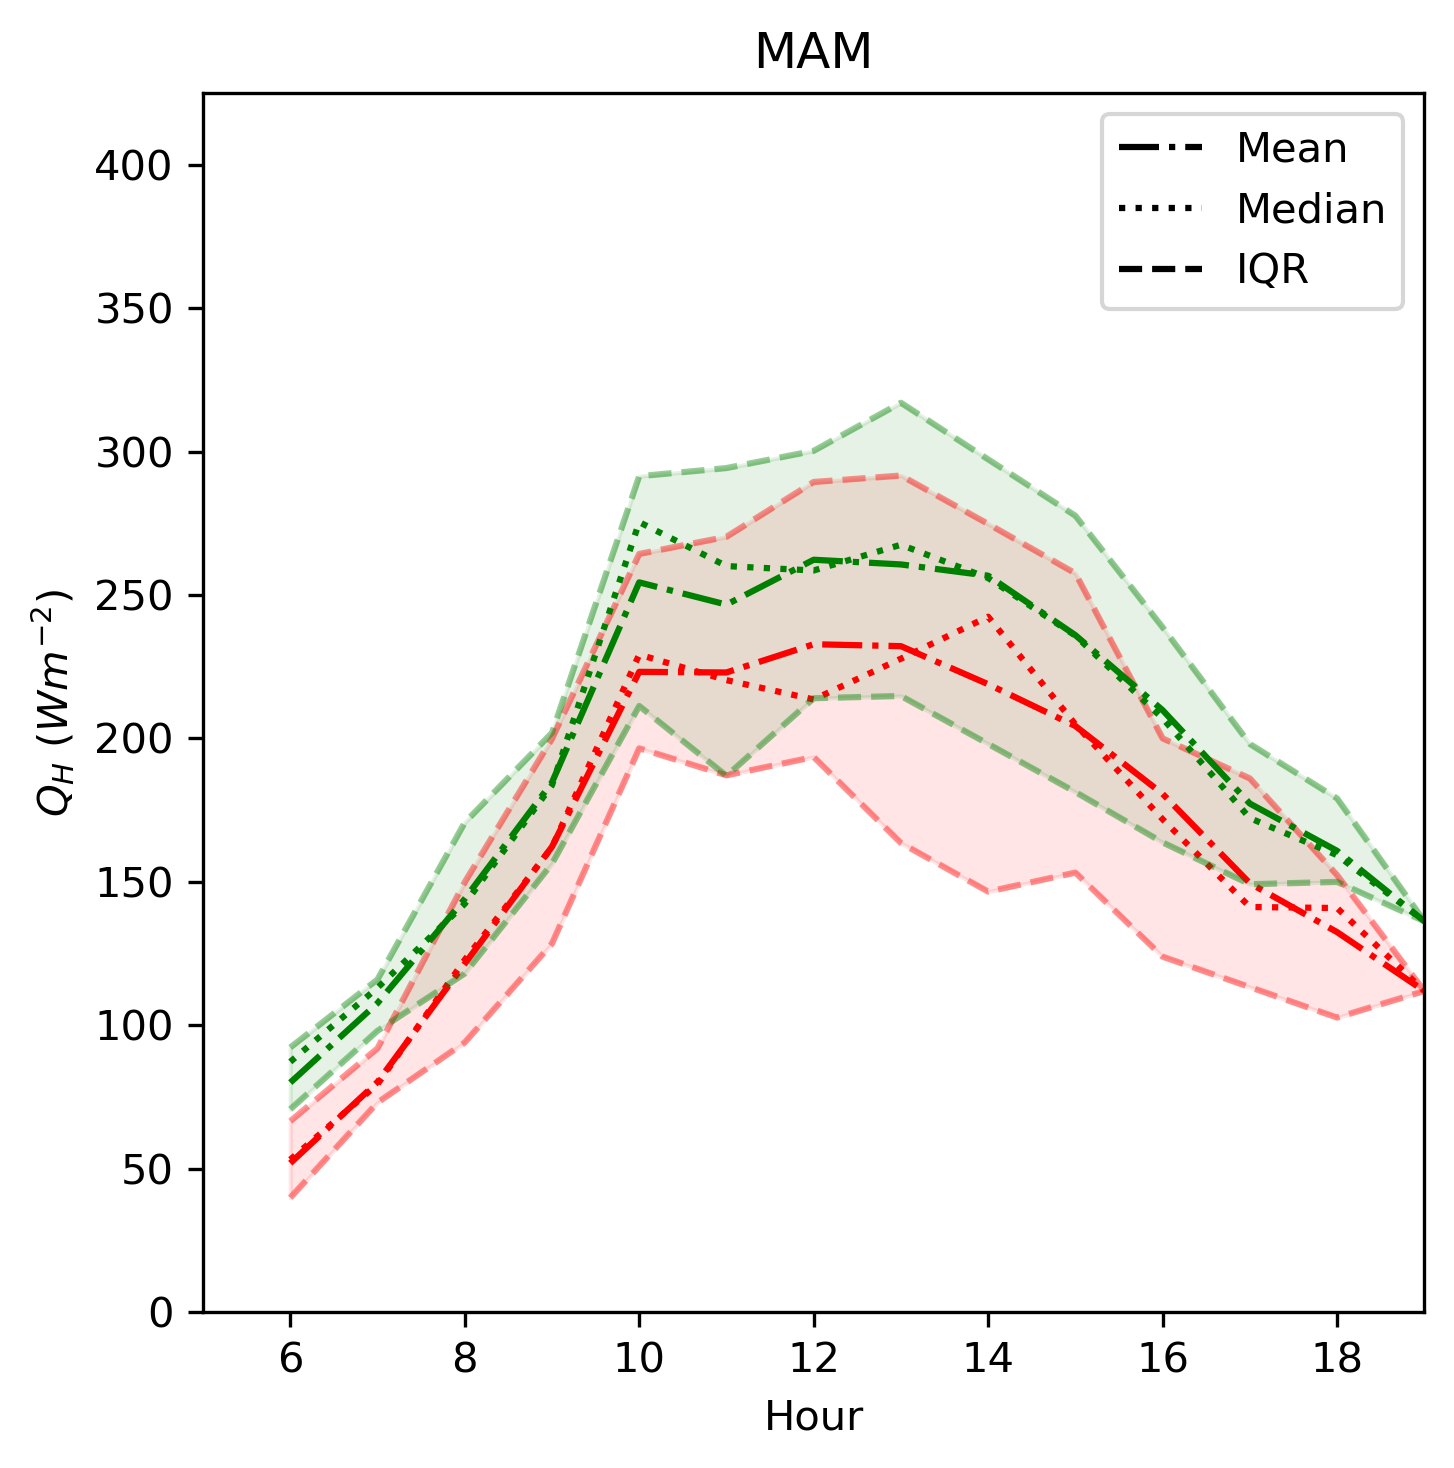
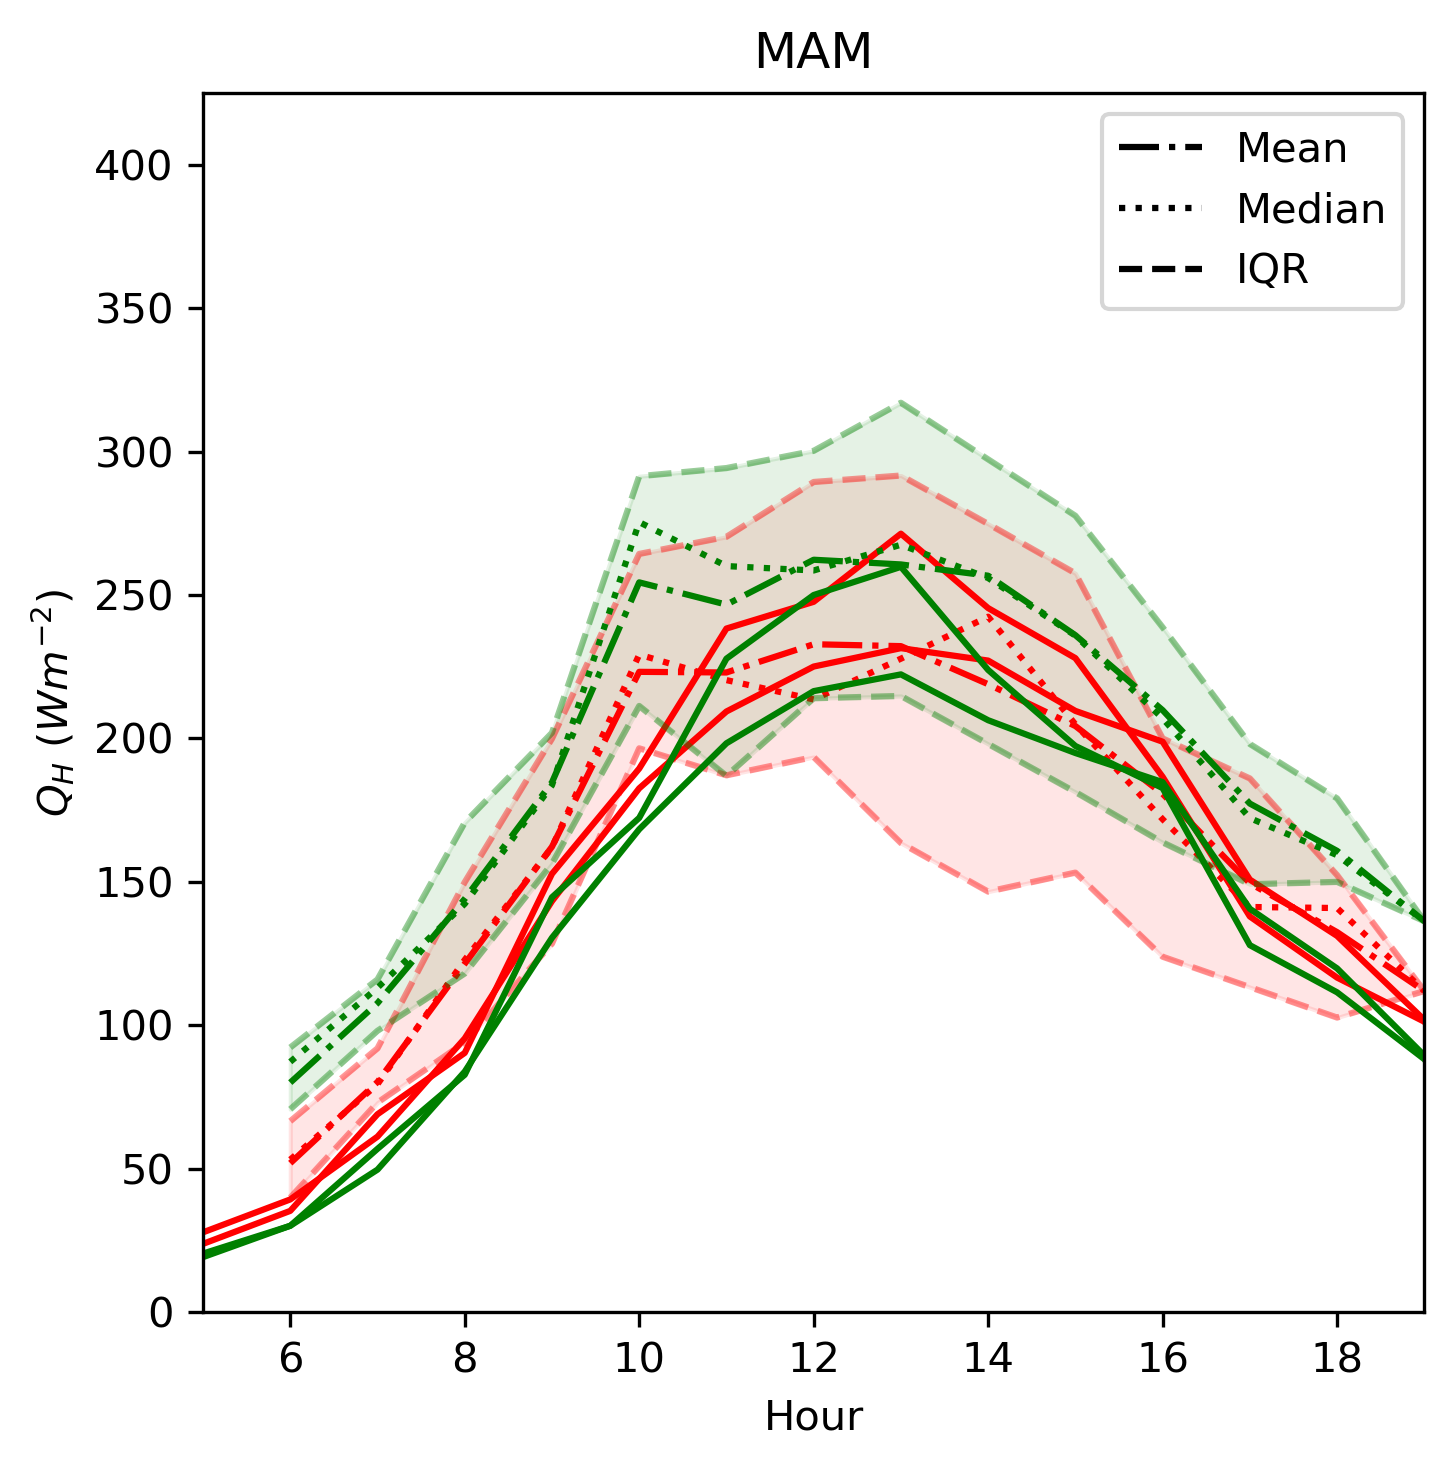
add model lines to plot

Changed region(s): [[0.1238, 0.3678, 0.9904, 0.8583]]

diff --git a/scint_plots/scint_seasonality/seasonality_funs.py b/scint_plots/scint_seasonality/seasonality_funs.py
@@ -19,7 +19,7 @@ def plot_season_one_panel(season_dict, season_dict_UKV, save_path, variable='QH'
 
     all_seasons = ['DJF', 'MAM', 'JJA', 'SON']
 
-    linestyle_dict = {'median': ':', 'mean': '-.', 'IQR': '--'}
+    linestyle_dict = {'median': ':', 'mean': '-.', 'IQR': '--', 'UKV_median': '-', 'UKV_mean': '-'}
 
     for season in all_seasons:
 
@@ -28,20 +28,29 @@ def plot_season_one_panel(season_dict, season_dict_UKV, save_path, variable='QH'
             fig, ax = plt.subplots(figsize=(5, 5))
 
             df_season = season_dict[season]
+            df_season_UKV = season_dict_UKV[season]
             ax.set_title(season)
 
+            IQR_path_dict_UKV = IQR(df_season_UKV)
             IQR_path_dict = IQR(df_season)
 
+
             for path in IQR_path_dict:
+
+                path_num_str = path.split('_')[-1]
+
                 IQR_dict = IQR_path_dict[path]
+                IQR_dict_UKV = IQR_path_dict_UKV['BL_H_' + path_num_str]
                 pair_id = look_up.scint_path_numbers[int(path.split('_')[-1])]
+
+                ax.plot(IQR_dict_UKV['mean'].index, IQR_dict_UKV['mean'], color=colour_dict[pair_id],linestyle=linestyle_dict['UKV_mean'])
+                ax.plot(IQR_dict_UKV['median'].index, IQR_dict_UKV['median'], color=colour_dict[pair_id],linestyle=linestyle_dict['UKV_median'])
 
                 ax.plot(IQR_dict['mean'].index, IQR_dict['mean'], color=colour_dict[pair_id], linestyle=linestyle_dict['mean'])
                 ax.plot(IQR_dict['median'].index, IQR_dict['median'], color=colour_dict[pair_id], linestyle=linestyle_dict['median'])
                 ax.plot(IQR_dict['25'].columns, IQR_dict['25'].iloc[0], color=colour_dict[pair_id], linestyle=linestyle_dict['IQR'], alpha=0.4)
                 ax.plot(IQR_dict['75'].columns, IQR_dict['75'].iloc[0], colour_dict[pair_id], linestyle=linestyle_dict['IQR'], alpha=0.4)
-                ax.fill_between(IQR_dict['25'].columns, IQR_dict['25'].iloc[0], IQR_dict['75'].iloc[0],
-                                color=colour_dict[pair_id], alpha=0.1)
+                ax.fill_between(IQR_dict['25'].columns, IQR_dict['25'].iloc[0], IQR_dict['75'].iloc[0], color=colour_dict[pair_id], alpha=0.1)
 
             ax.get_xaxis().set_major_locator(MaxNLocator(integer=True))
 
@@ -150,11 +159,13 @@ def IQR(df):
     """
 
     for column in df.columns:
-        if column != 'QH_12':
+        if column.split('_')[-1] != '12':
             other_col_name = column
+        else:
+            column_name_12 = column
 
     df_12 = df.drop(columns=[other_col_name])
-    df_other = df.drop(columns=['QH_12'])
+    df_other = df.drop(columns=[column_name_12])
 
     df_path_list = [df_12, df_other]
     dict_path = {}
